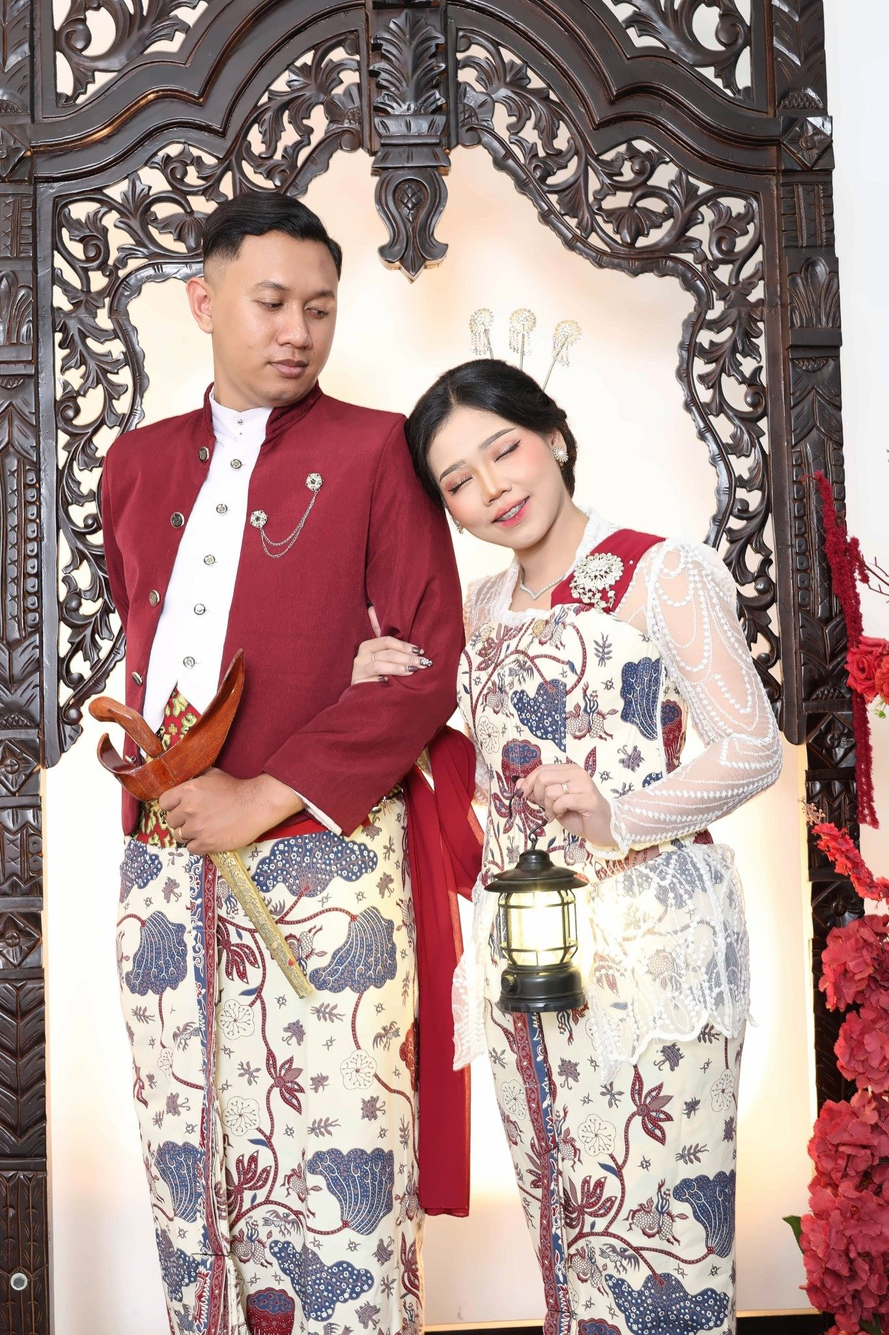
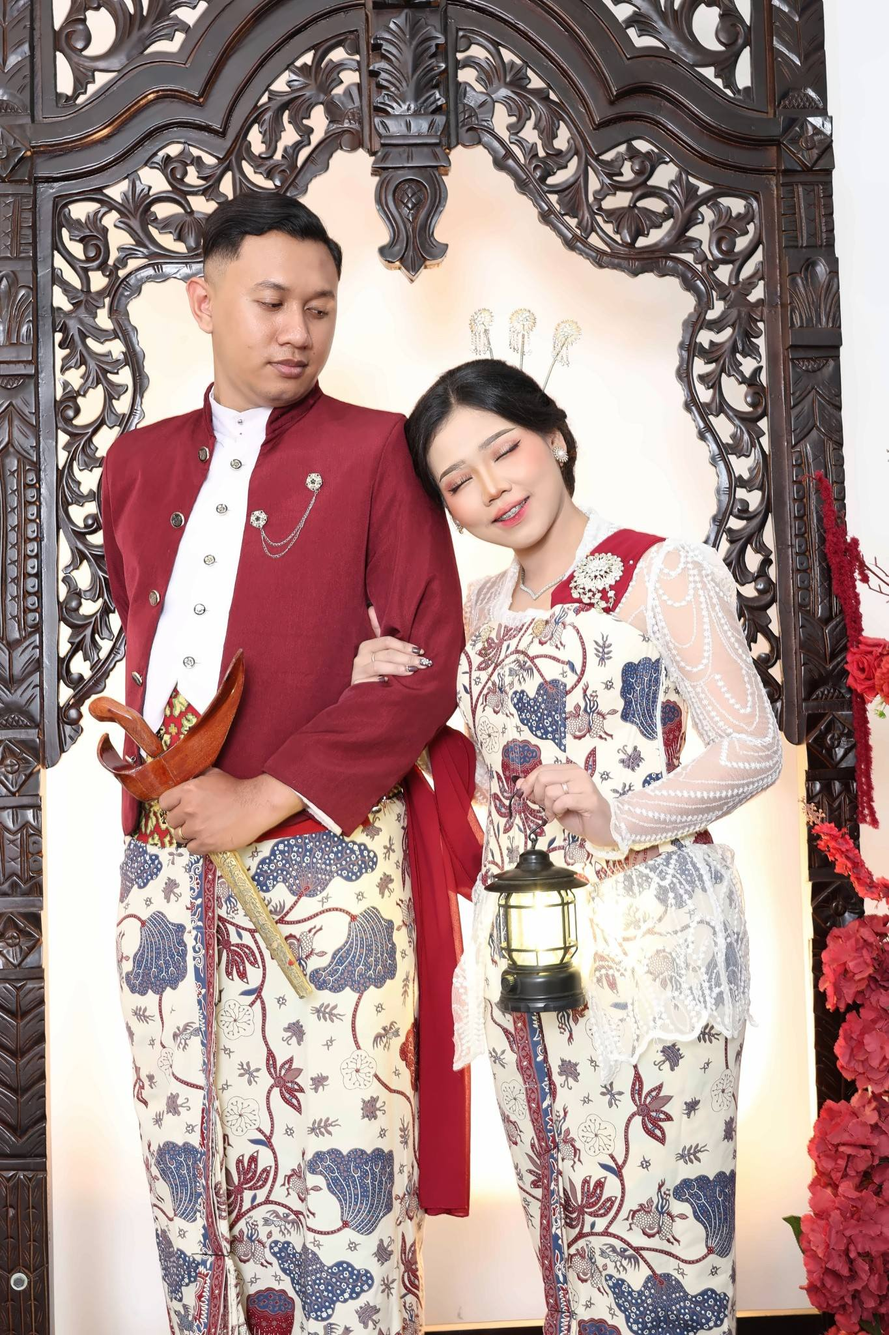
transisi foto

diff --git a/index.html b/index.html
@@ -79,14 +79,14 @@
 <body class="locked"><a href="#main" class="skip">Lewati pembuka</a>
 <div class="cover" id="cover" role="dialog" aria-modal="true" aria-labelledby="cover-title"><div class="cover-photo"><img src="photos/prewed-cover-v2.jpg" alt="Bagas dan Vania bersama" fetchpriority="high"></div><div class="cover-content"><span class="cover-frame" aria-hidden="true"></span><img class="cover-ceremonial-arch" src="ornaments/botanical-arch.webp" alt="" aria-hidden="true"><span class="cover-medallion" aria-hidden="true">B · V</span><div class="cover-main"><div class="overline">The wedding of</div><h1 id="cover-title">Bagas<span>&</span>Vania</h1><div class="cover-date">Selasa · 24 November 2026</div><div class="line"></div></div><div class="cover-invite"><p class="recipient">Kepada Yth.<strong id="guest">Bapak/Ibu/Saudara/i</strong></p><button id="open" class="button button-filled" type="button">Buka Undangan</button></div></div></div>
 <main id="main" class="page" tabindex="-1"><header class="masthead"><div class="monogram">B & V</div><div class="masthead-date"><time datetime="2026-11-24T09:00:00+07:00">SELASA · 24 NOVEMBER 2026</time><div id="corner-countdown" class="corner-countdown" aria-label="Hitung mundur menuju hari pernikahan"></div></div></header><section class="editorial"><div class="narrow reveal"><div class="overline">Bismillahirrahmanirrahim</div><h2>Merayakan cinta,<br>menyatukan doa</h2><p class="intro">Dengan memohon rahmat dan ridha Allah SWT, kami mengundang Bapak/Ibu/Saudara/i untuk hadir dan memberikan doa restu pada pernikahan kami.</p><div class="couple"><div class="person"><figure class="person-photo"><img src="photos/bagas-biodata.jpg" width="710" height="850" alt="Potret asli Bagas dengan busana adat" loading="lazy"></figure><h3>Bagas Alwiyantoro</h3><p>Putra dari<br>Alm. Bapak Mahfut Mashudi<br>& Ibu Retno Susilowati</p></div><div class="amp" aria-hidden="true">&</div><div class="person"><figure class="person-photo"><img src="photos/vania-biodata.jpg" width="720" height="860" alt="Potret asli Vania dengan busana adat" loading="lazy"></figure><h3>Stevania Febriyanti</h3><p>Putri dari<br>Bapak Nanang Supriyanto<br>& Ibu Tarsini</p></div></div></div></section><section class="portrait-band" aria-label="Foto prewedding Bagas dan Vania"><img src="photos/prewed-intimate-v2.jpg" alt="Bagas dan Vania berpose bersama" loading="lazy"><div class="portrait-caption reveal">Bagas & Vania</div></section><section class="schedule"><div class="narrow"><div class="overline reveal">Save the date</div><h2 class="reveal">Hari bahagia kami</h2><div class="date-block reveal"><span class="big">24</span><span class="side">Selasa<br>November 2026</span></div><div class="event-grid"><article class="event reveal"><h3>Akad Nikah</h3><strong>09.00 WIB</strong><p>Kantor Urusan Agama (KUA)<br>Ketanen, Kecamatan Trangkil,<br>Kabupaten Pati</p></article><article class="event reveal"><h3>Resepsi</h3><strong>10.00 WIB – selesai</strong><p>Kediaman mempelai wanita<br>Desa Mojoagung RT 03/RW 02, Trangkil</p><a class="button map-button" href="https://maps.app.goo.gl/hrZVxfkpQYuadmTk6" target="_blank" rel="noopener noreferrer">Buka Google Maps</a></article></div></div></section><section class="gallery"><div class="overline reveal">Our moments</div><h2 class="reveal">Sepenggal cerita kami</h2><blockquote class="story-quote reveal"><p>Awal cerita baru telah dimulai. Cincin di jari kami adalah saksi atas air mata dan doa yang akhirnya dikabulkan. Sebuah perjuangan panjang untuk meruntuhkan pembatas, lalu mengubahnya menjadi jembatan.</p><span class="story-highlight">Dua keyakinan, kini menyatu dalam satu janji suci hingga akhir hayat.</span></blockquote><div class="photo-grid" aria-label="Galeri prewedding Bagas dan Vania">
-<figure class="reveal story-shot shot-intimate"><img src="photos/optimized/story-walking.jpg" alt="Bagas dan Vania berjalan bersama sambil saling memandang" loading="lazy"></figure>
-<figure class="reveal story-shot shot-tea"><img src="photos/optimized/story-tea.jpg" alt="Bagas dan Vania bersama di dekat meja dan kursi ukiran" loading="lazy"></figure>
-<figure class="reveal story-shot shot-hands"><img src="photos/optimized/story-hands.jpg" alt="Bagas dan Vania saling bergandengan tangan" loading="lazy"></figure>
-<figure class="reveal story-shot shot-chair"><img src="photos/optimized/story-chair.jpg" alt="Vania berdiri di samping Bagas yang duduk" loading="lazy"></figure>
-<figure class="reveal story-shot shot-lantern"><img src="photos/optimized/story-lantern.jpg" alt="Vania bersandar pada Bagas sambil memegang lentera" loading="lazy"></figure>
-<figure class="reveal story-shot shot-fan"><img src="photos/optimized/story-fan.jpg" alt="Vania membawa kipas dalam pose berdua" loading="lazy"></figure>
-<figure class="reveal story-shot shot-seated"><img src="photos/optimized/story-seated.jpg" alt="Bagas dan Vania duduk saling menatap" loading="lazy"></figure>
-<figure class="reveal story-shot shot-regal"><img src="photos/optimized/story-regal.jpg" alt="Bagas duduk dan Vania berdiri di sampingnya" loading="lazy"></figure>
+<figure class="reveal story-shot shot-intimate"><picture><source srcset="photos/optimized/story-walking.webp" type="image/webp"><img src="photos/optimized/story-walking.jpg" alt="Bagas dan Vania berjalan bersama sambil saling memandang" loading="lazy"></picture></figure>
+<figure class="reveal story-shot shot-tea"><picture><source srcset="photos/optimized/story-tea.webp" type="image/webp"><img src="photos/optimized/story-tea.jpg" alt="Bagas dan Vania bersama di dekat meja dan kursi ukiran" loading="lazy"></picture></figure>
+<figure class="reveal story-shot shot-hands"><picture><source srcset="photos/optimized/story-hands.webp" type="image/webp"><img src="photos/optimized/story-hands.jpg" alt="Bagas dan Vania saling bergandengan tangan" loading="lazy"></picture></figure>
+<figure class="reveal story-shot shot-chair"><picture><source srcset="photos/optimized/story-chair.webp" type="image/webp"><img src="photos/optimized/story-chair.jpg" alt="Vania berdiri di samping Bagas yang duduk" loading="lazy"></picture></figure>
+<figure class="reveal story-shot shot-lantern"><picture><source srcset="photos/optimized/story-lantern.webp" type="image/webp"><img src="photos/optimized/story-lantern.jpg" alt="Vania bersandar pada Bagas sambil memegang lentera" loading="lazy"></picture></figure>
+<figure class="reveal story-shot shot-fan"><picture><source srcset="photos/optimized/story-fan.webp" type="image/webp"><img src="photos/optimized/story-fan.jpg" alt="Vania membawa kipas dalam pose berdua" loading="lazy"></picture></figure>
+<figure class="reveal story-shot shot-seated"><picture><source srcset="photos/optimized/story-seated.webp" type="image/webp"><img src="photos/optimized/story-seated.jpg" alt="Bagas dan Vania duduk saling menatap" loading="lazy"></picture></figure>
+<figure class="reveal story-shot shot-regal"><picture><source srcset="photos/optimized/story-regal.webp" type="image/webp"><img src="photos/optimized/story-regal.jpg" alt="Bagas duduk dan Vania berdiri di sampingnya" loading="lazy"></picture></figure>
 </div></section><section class="gift" id="amplop-digital"><div class="overline reveal">Dengan penuh syukur</div><h2 class="reveal">Amplop digital</h2><p class="gift-copy reveal">Kehadiran dan doa restu Anda merupakan hadiah yang sangat berarti bagi kami. Dengan penuh rasa syukur, kami menyediakan amplop digital bagi keluarga dan sahabat yang berkenan menyampaikan tanda kasih.</p><div class="gift-grid"><article class="gift-card reveal"><div class="gift-bank">Bank Mandiri</div><div class="gift-number">1840002680849</div><p class="gift-owner">a.n. Bagas Alwiyantoro</p><button class="button copy-account" type="button" data-account="1840002680849">Salin nomor rekening</button><p class="gift-feedback" role="status" aria-live="polite"></p></article><article class="gift-card reveal"><div class="gift-bank">SeaBank</div><div class="gift-number">901883594048</div><p class="gift-owner">a.n. Stevania Febriyanti</p><button class="button copy-account" type="button" data-account="901883594048">Salin nomor rekening</button><p class="gift-feedback" role="status" aria-live="polite"></p></article></div></section><section class="closing"><div class="overline reveal">Terima kasih</div><h2 class="reveal">Sampai bertemu<br>di hari bahagia kami</h2><p class="reveal">Merupakan kehormatan dan kebahagiaan bagi kami apabila Bapak/Ibu/Saudara/i berkenan hadir untuk memberikan doa restu.</p><div class="signature reveal"><span>Bagas</span> <span class="signature-amp">&amp;</span> <span>Vania</span></div></section></main><audio id="wedding-music" src="audio/anugerah-terindah.mp3" preload="none" loop></audio><button id="music-toggle" class="music-toggle" type="button" aria-label="Matikan musik" title="Anugerah Terindah — Andmesh" hidden><span class="note" aria-hidden="true">♫</span><span class="pause" aria-hidden="true">Ⅱ</span></button><footer class="footer">SELASA · 24 NOVEMBER 2026 · TRANGKIL, PATI</footer>
 <script>
 (()=>{if('scrollRestoration'in history)history.scrollRestoration='manual';const resetScroll=()=>window.scrollTo(0,0);resetScroll();window.addEventListener('pageshow',()=>setTimeout(resetScroll,0));document.querySelectorAll('.copy-account').forEach(button=>button.addEventListener('click',async()=>{const card=button.closest('.gift-card'),feedback=card.querySelector('.gift-feedback'),account=button.dataset.account;try{await navigator.clipboard.writeText(account);feedback.textContent='Nomor rekening berhasil disalin.';card.classList.add('copied');setTimeout(()=>card.classList.remove('copied'),1600)}catch{feedback.textContent='Silakan salin nomor rekening di atas secara manual.'}}));const cover=document.getElementById('cover'),open=document.getElementById('open'),main=document.getElementById('main'),guest=document.getElementById('guest'),music=document.getElementById('wedding-music'),musicToggle=document.getElementById('music-toggle');music.volume=.38;let musicPlaying=false;const setMusicState=playing=>{musicPlaying=playing;musicToggle.classList.toggle('is-playing',playing);musicToggle.setAttribute('aria-label',playing?'Matikan musik':'Putar musik')};musicToggle.addEventListener('click',async()=>{if(musicPlaying){music.pause();setMusicState(false)}else{try{await music.play();setMusicState(true)}catch{setMusicState(false)}}});const countdown=document.getElementById('corner-countdown'),weddingTime=new Date('2026-11-24T09:00:00+07:00').getTime();function updateCountdown(){const remaining=weddingTime-Date.now();if(remaining<=0){countdown.textContent='Hari bahagia telah tiba';return}const totalSeconds=Math.floor(remaining/1000),days=Math.floor(totalSeconds/86400),hours=Math.floor(totalSeconds%86400/3600),minutes=Math.floor(totalSeconds%3600/60),seconds=totalSeconds%60;countdown.textContent=`${days} hari · ${String(hours).padStart(2,'0')}:${String(minutes).padStart(2,'0')}:${String(seconds).padStart(2,'0')}`}updateCountdown();setInterval(updateCountdown,1000);const name=new URLSearchParams(location.search).get('to');if(name&&name.trim()) guest.textContent=name.trim().slice(0,90);async function enter(){resetScroll();cover.classList.add('is-open');cover.setAttribute('aria-hidden','true');document.body.classList.remove('locked');musicToggle.hidden=false;try{await music.play();setMusicState(true)}catch{setMusicState(false)}main.focus({preventScroll:true});setTimeout(()=>{cover.hidden=true},1050)}open.addEventListener('click',enter);document.querySelector('.skip').addEventListener('click',e=>{e.preventDefault();enter()});const items=document.querySelectorAll('.reveal');if('IntersectionObserver'in window){const observer=new IntersectionObserver(entries=>{entries.forEach(entry=>{if(entry.isIntersecting){entry.target.classList.add('visible');observer.unobserve(entry.target)}})},{threshold:.08});items.forEach(item=>observer.observe(item))}else items.forEach(item=>item.classList.add('visible'));})();

diff --git a/gallery-v2.css b/gallery-v2.css
@@ -21,6 +21,12 @@
   box-shadow: 0 20px 44px rgba(52, 38, 30, .19);
 }
 
+.gallery .photo-grid .story-shot picture {
+  display: block;
+  width: 100%;
+  height: 100%;
+}
+
 .gallery .photo-grid .story-shot:nth-child(even) {
   border-radius: 26px 26px 170px 170px;
 }
